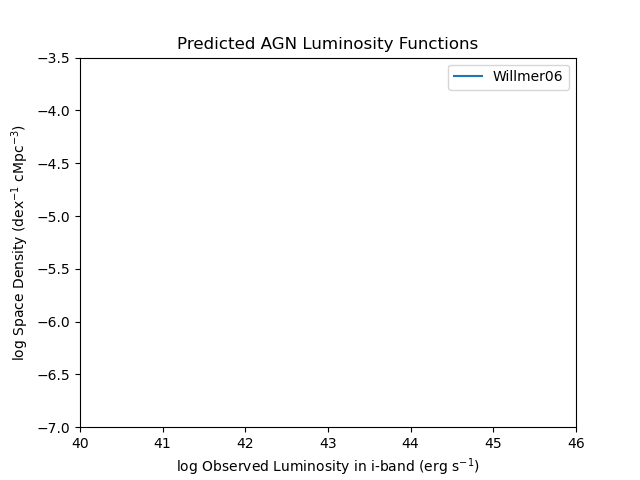
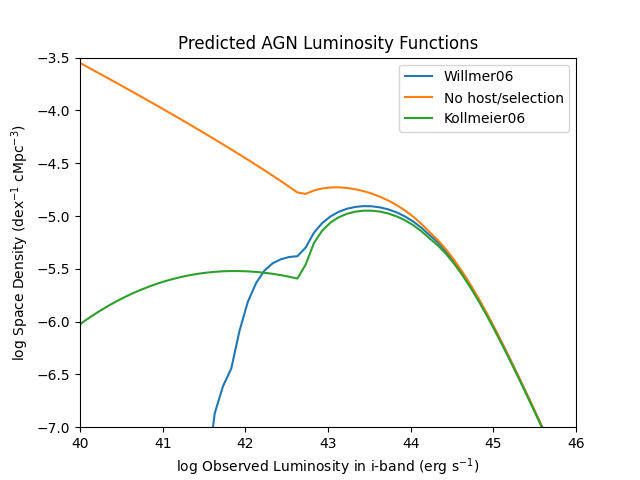
Updates for new, more flexible structure.

diff --git a/qlfhosts/util/Lhost_Lagn_max_v2.py b/qlfhosts/util/Lhost_Lagn_max_v2.py
@@ -1,17 +1,45 @@
 import numpy as np
+import sys 
 
 #Function to find the maximum tolerated ratio between the host and AGN at wavelength lambda for which the object would be selected as an AGN according to criterion sel_crit.
-def Lhost_Lagn_max(agn_sed, hosts_sed, Alam, lam_rest, sel_crit, xlow=0, xhig=100, niter_max=100, debug=False):
+def Lhost_Lagn_max(agn_sed, hosts_sed, Alam, Aband_to_Alam, sel_crit, x_unscaled_all, xlow=0, xhig=100, niter_max=100, debug=False):
 
     #Find the unscaled luminosity ratio. 
-    Lnu_agn_unscaled = agn_sed.Lnu(lam_rest)
-    Lnu_hosts_unscaled = hosts_sed.Lnu(lam_rest)
+    #Lnu_agn_unscaled = agn_sed.Lnu(lam_rest)
+    #Lnu_hosts_unscaled = hosts_sed.Lnu(lam_rest)
 
-    #There should only be one AGN SED, but there can be multiple hosts. 
-    x_unscaled = np.zeros(Lnu_hosts_unscaled.shape)
-    x = np.zeros(len(x_unscaled))
-    for k, Lnu_host_unscaled in enumerate(Lnu_hosts_unscaled):
-        x_unscaled[k] = Lnu_agn_unscaled[0]/Lnu_host_unscaled
+    #Figure out the reddening factors for the AGN. 
+    # Aband = np.zeros(len(agn_sed.bps))
+    # klam_norm = agn_sed.klam(lam_rest)
+    # for j, bp in enumerate(agn_sed.bps):
+    #     lam_eff_band = bp.avgwave()
+    #     Aband[j] = (agn_sed.klam(lam_eff_band/(1+agn_sed.z)) / klam_norm) * Alam
+
+    #Get the AGN unscaled magnitudes.
+    agn_mags = dict()
+    for j, bp_name in enumerate(agn_sed.bp_names):
+        agn_mags[bp_name] = agn_sed.mag_unscaled[0][j] + Aband_to_Alam[bp_name]*Alam
+
+    #Get the host unscaled magnitudes and the difference with the AGN ones. 
+    all_hosts_mag_diff = list()
+    try:
+        for k in range(len(hosts_sed.mag_unscaled)):
+            all_hosts_mag_diff.append(dict())
+            for j, bp_name in enumerate(hosts_sed.bp_names):
+                all_hosts_mag_diff[-1][bp_name] = hosts_sed.mag_unscaled[k][j] - agn_mags[bp_name]
+    except KeyError:
+        print("Need to use the same bands in AGN and hosts SEDs.")
+        sys.exit()
+
+    #There should only be one AGN SED, but there can be multiple hosts, so lets iterate through them to get x. 
+    x = np.zeros(len(hosts_sed.sps))
+    for k, x_unscaled in enumerate(x_unscaled_all):
+
+        # #Set the normalization factor for this template.
+        # x_unscaled = Lnu_host_unscaled/Lnu_agn_unscaled[0]
+
+        #Isolate only the mag_diff values needed.
+        mag_diff = all_hosts_mag_diff[k]
 
         #Don't go through this if the host sed template has 0 likelihood (i.e., is not being used)
         if hosts_sed.likelihood[k]==0.:
@@ -19,13 +47,15 @@ def Lhost_Lagn_max(agn_sed, hosts_sed, Alam, lam_rest, sel_crit, xlow=0, xhig=10
             continue
 
         #Check that xmin selects the source and that xmax does not. If this is not met, then return the bound.
-        if not sel_crit.is_selected(xlow, Alam, lam_rest, agn_sed, hosts_sed, k, x_unscaled):
+        #if not sel_crit.is_selected(xlow, Alam, lam_rest, agn_sed, hosts_sed, k, x_unscaled):
+        if not sel_crit.is_selected(xlow, x_unscaled, agn_mags, mag_diff):
             if debug:
                 print("Object not selected as AGN at xlow. Returning xlow.")
             x[k] = xlow
             continue
 
-        if sel_crit.is_selected(xhig, Alam, lam_rest, agn_sed, hosts_sed, k, x_unscaled):
+        #if sel_crit.is_selected(xhig, Alam, lam_rest, agn_sed, hosts_sed, k, x_unscaled):
+        if sel_crit.is_selected(xhig, x_unscaled, agn_mags, mag_diff):
             if debug:
                 print("Object selected as AGN at xhig. Returning xhig.")
             x[k] = xhig
@@ -36,11 +66,12 @@ def Lhost_Lagn_max(agn_sed, hosts_sed, Alam, lam_rest, sel_crit, xlow=0, xhig=10
         x2 = xhig
         for i in range(niter_max):
             x[k] = 0.5*(x1+x2)
-            if sel_crit.is_selected(x[k], Alam, lam_rest, agn_sed, hosts_sed, k, x_unscaled):
+            #if sel_crit.is_selected(x[k], Alam, lam_rest, agn_sed, hosts_sed, k, x_unscaled):
+            if sel_crit.is_selected(x[k], x_unscaled, agn_mags, mag_diff):
                 x1 = x[k]
             else:
                 x2 = x[k]
-            if (x1-x2)/x[k]<1e-4:
+            if (x2-x1)/x[k]<1e-4:
                 break
 
         #Only gets here if solution not found in niter_max iterations.

diff --git a/Phi_Obs_hostgal_MiLim_v2.py b/Phi_Obs_hostgal_MiLim_v2.py
@@ -136,32 +136,44 @@ def get_phi_lam_obs(z, qlf, lLfrac_lam_obs_min, lLfrac_lam_obs_max, lam_eff_filt
     ltheta = 10.**(lNH-22) * ltheta_fact
     ltheta_2D = np.tile(ltheta, [len(lLfrac_lam_obs_grid), 1])
 
-    #Calculate the maximum host luminosity we can tolerate for each value of the reddening being considered. 
+    #Before calculating the maximum host luminosity allowed, let's pre-compute a number of useful quantities. 
+    # - Find the unscaled luminosity ratio. 
+    Lnu_agn_unscaled = agn_sed.Lnu(lam_eff_filter/(1.+z))
+    Lnu_hosts_unscaled = hosts_sed.Lnu(lam_eff_filter/(1.+z))
+    x_unscaled_all = Lnu_hosts_unscaled/Lnu_agn_unscaled[0]
+    # - Figure out the reddening factors for the AGN. 
+    Aband_to_Alam = dict()
+    klam_norm = agn_sed.klam(lam_eff_filter/(1.+z))
+    for j, bp in enumerate(agn_sed.bps):
+        lam_eff_band = bp.avgwave()
+        bp_name = agn_sed.bp_names[j]
+        Aband_to_Alam[bp_name] = (agn_sed.klam(lam_eff_band/(1+agn_sed.z)) / klam_norm)
+
+    #Calculate the maximum host luminosity we can tolerate for each value of the reddening being considered for each host template. 
     Lh_La_max = np.zeros((lNH.shape[0],hosts_sed.likelihood.shape[0]))
-    print(Lh_La_max.shape)
-    input()
     A_lams = 2.5*ltheta
     for k, A_lam in enumerate(A_lams):
-        Lh_La_max[k] = Lhost_Lagn_max(agn_sed, hosts_sed, A_lam, lam_eff_filter/(1.+z), sel_crit)
-        print(Lh_La_max[k])
-        input()
-    Lh_La_max_2D = np.tile(Lh_La_max, [len(lLfrac_lam_obs_grid),1])
+        Lh_La_max[k] = Lhost_Lagn_max(agn_sed, hosts_sed, A_lam, Aband_to_Alam, sel_crit, x_unscaled_all)
 
+    #Estimate some useful quantities.
     nu_rest = (c/(lam_eff_filter/(1.+z))).to(u.Hz)
     L_nu    = qlf.L_at_lam(Lfrac*Lstar, lam_eff_filter/(1.+z))/nu_rest
     L_nu_2D = np.tile(L_nu, [len(lNH), 1]).T
-    #print(Lh_La_max_2D.shape, L_nu_2D.shape)
-    Lh_nu_max_2D = Lh_La_max_2D * L_nu_2D
-
-    #Lh_nu_max = (Lh_La_max * Lfrac*Lstar / (c/lam_eff_filter)).to(u.erg/u.s/u.Hz).value
-    #print(Lh_nu_max_2D)
-    #for k in range(len(lNH)):
-    #    print("{0:.2f} {1:.5f} {2:.2f}".format(lNH[k], Lh_La_max[k], glf.P(Lh_nu_max[k].to(u.erg/u.s/u.Hz).value)))
     L_bol_AGN = Lfrac*Lstar
     L_bol_AGN_2D = np.tile(L_bol_AGN, [len(lNH), 1]).T
-    P_2D = glf.P(Lh_nu_max_2D, sed=agn_sed, L_AGN = L_bol_AGN_2D)
-    #print(P_2D)
-    # exit()
+
+    #This is the array that will hold the combined probabilities. 
+    P_2D = np.zeros(L_nu_2D.shape)
+
+    #Iterate by template to fill out the P_2D array.
+    for k_sed in range(len(hosts_sed.sps)):
+        if hosts_sed.likelihood[k_sed] == 0.:
+            continue
+        Lh_La_max_2D = np.tile(Lh_La_max[:,k_sed], [len(lLfrac_lam_obs_grid),1])
+        Lh_nu_max_2D = Lh_La_max_2D * L_nu_2D
+
+        P_host = glf.P(Lh_nu_max_2D, hosts_sed=hosts_sed, k_hosts_sed=k_sed, L_AGN=L_bol_AGN_2D, lam_rest=lam_eff_filter/(1.+z))
+        P_2D += hosts_sed.likelihood[k_sed] * P_host
 
     #For each NH, we will need to evaluate the unreddened QLF at a luminosity of lLfrac_lam_obs_grid + ltheta. So let's build it as a 2D array in which each row has the same lLfrac_lam_obs_grid value modified by the reddening correction (i.e., unreddened assuming different levels of obscuration).
     lLfrac_lam_sig_eval_2D = np.tile(lLfrac_lam_obs_grid, [len(lNH), 1]).T + ltheta_2D

diff --git a/qlfhosts/AGN_Selection/selection_criteria_class_v2.py b/qlfhosts/AGN_Selection/selection_criteria_class_v2.py
@@ -7,36 +7,43 @@ class SelectionCriteria(object):
     def __init__(self):
         return
 
-    def is_selected(self,Lhost_Lagn, Alam, lam_rest, agn_sed, hosts_sed, k_hosts_sed, Lhost_Lagn_unscaled):
+    #def is_selected(self,Lhost_Lagn, Alam, lam_rest, agn_sed, hosts_sed, k_hosts_sed, Lhost_Lagn_unscaled):
         
+    def is_selected(self, Lhost_Lagn, Lhost_Lagn_unscaled, agn_mags, mag_diff):
+
         #Set the normalization for the SED ratios.
-        ratio = Lhost_Lagn/Lhost_Lagn_unscaled[k_hosts_sed]
+        #ratio = Lhost_Lagn/Lhost_Lagn_unscaled[k_hosts_sed]
+        ratio = Lhost_Lagn/Lhost_Lagn_unscaled
 
         #Figure out the reddening factors for the AGN. 
-        Aband = np.zeros(len(agn_sed.bps))
-        klam_norm = agn_sed.klam(lam_rest)
-        for j, bp in enumerate(agn_sed.bps):
-            lam_eff_band = bp.avgwave()
-            Aband[j] = (agn_sed.klam(lam_eff_band/(1+agn_sed.z)) / klam_norm) * Alam
+        # Aband = np.zeros(len(agn_sed.bps))
+        # klam_norm = agn_sed.klam(lam_rest)
+        # for j, bp in enumerate(agn_sed.bps):
+        #     lam_eff_band = bp.avgwave()
+        #     Aband[j] = (agn_sed.klam(lam_eff_band/(1+agn_sed.z)) / klam_norm) * Alam
 
         #Get the AGN magnitudes.
-        agn_mags = dict()
-        for j, bp_name in enumerate(agn_sed.bp_names):
-            agn_mags[bp_name] = agn_sed.mag_unscaled[0][j] + Aband[j]
+        # agn_mags = dict()
+        # for j, bp_name in enumerate(agn_sed.bp_names):
+        #     agn_mags[bp_name] = agn_sed.mag_unscaled[0][j] + Aband[j]
 
         #Get the host magnitudes. 
-        host_mags = dict()
-        for j, bp_name in enumerate(hosts_sed.bp_names):
-            host_mags[bp_name] = hosts_sed.mag_unscaled[k_hosts_sed][j]
+        # host_mags = dict()
+        # for j, bp_name in enumerate(hosts_sed.bp_names):
+        #     host_mags[bp_name] = hosts_sed.mag_unscaled[k_hosts_sed][j]
 
         #Combine the magnitudes.
-        try:
-            mag = dict()
-            for bp_name in agn_mags:
-                mag[bp_name] = -2.5*np.log10(10**(-0.4*agn_mags[bp_name]) + ratio * 10**(-0.4*host_mags[bp_name]))
-        except KeyError:
-            print("Need to use the same bands in AGN and hosts SEDs.")
-            sys.exit()
+        # try:
+        #     mag = dict()
+        #     for bp_name in agn_mags:
+        #         mag[bp_name] = -2.5*np.log10(10**(-0.4*agn_mags[bp_name]) + ratio * 10**(-0.4*host_mags[bp_name]))
+        # except KeyError:
+        #     print("Need to use the same bands in AGN and hosts SEDs.")
+        #     sys.exit()
    
+        mag = dict()
+        for bp_name in agn_mags:
+            mag[bp_name] = agn_mags[bp_name] - 2.5*np.log10(1.+ratio*10**(-0.4*mag_diff[bp_name]))
+
         #Apply the selection criterion. 
         return self.is_agn(mag)

diff --git a/test_script_v2.py b/test_script_v2.py
@@ -11,7 +11,7 @@ from qlfhosts.SEDs import A10_AGN, A10_hosts
 from qlfhosts.AGN_Selection.R02_v2 import R02
 from qlfhosts.GLFs.Willmer06 import Willmer06
 from qlfhosts.GLFs.Uniform import Uniform
-from qlfhosts.GLFs.Kollmeier06 import Kollmeier06
+from qlfhosts.GLFs.Kollmeier06_v2 import Kollmeier06
 
 #Set the redshift at which we want to estimate the observed QLF. 
 #z = 1.0
@@ -49,13 +49,13 @@ glf2 = Uniform()
 phi2, dlLfrac2 = get_phi_lam_obs(z, qlf, lL_frac_min, lL_frac_max, lam_eff_filter , agn_sed, hosts_sed, sel_crit, glf2)
 
 #Estimate now with the Eddington-ratio dependent host distribution.
-#glf3 = Kollmeier06()
-#phi3, dlLfrac3 = get_phi_lam_obs(z, qlf, lL_frac_min, lL_frac_max, lam_eff_filter , agn_sed, hosts_sed, sel_crit, glf3)
+glf3 = Kollmeier06()
+phi3, dlLfrac3 = get_phi_lam_obs(z, qlf, lL_frac_min, lL_frac_max, lam_eff_filter , agn_sed, hosts_sed, sel_crit, glf3)
 
 #Plot the observed QLF.
 lLfracs = np.arange(lL_frac_min, lL_frac_max+0.1*dlLfrac.value, dlLfrac.value)
 lLfracs2 = np.arange(lL_frac_min, lL_frac_max+0.1*dlLfrac2.value, dlLfrac2.value)
-#lLfracs3 = np.arange(lL_frac_min, lL_frac_max+0.1*dlLfrac3.value, dlLfrac3.value)
+lLfracs3 = np.arange(lL_frac_min, lL_frac_max+0.1*dlLfrac3.value, dlLfrac3.value)
 
 Lstar = 10.**(qlf.log_Lstar(z)) * qlf.Lstar_units
 nu_Lstarnu = qlf.L_at_lam(Lstar, lam_eff_filter/(1.+z))
@@ -66,11 +66,11 @@ Lstar_nu = (nu_Lstarnu/nu_rest).to(u.erg/u.s/u.Hz).value
 norm = np.log10(nu_Lstarnu.to(u.erg/u.s).value)
 lLnu = lLfracs + norm
 lLnu2 = lLfracs2 + norm
-#lLnu3 = lLfracs3 + norm
+lLnu3 = lLfracs3 + norm
 
 lphi = np.log10(phi.value)
 lphi2 = np.log10(phi2.value)
-#lphi3 = np.log10(phi3.value)
+lphi3 = np.log10(phi3.value)
 
 #plt.plot(lLfracs, phi)
 #plt.plot(lLfracs2, phi2)
@@ -78,8 +78,8 @@ lphi2 = np.log10(phi2.value)
 #plt.ylim([1e-7, 1e-4])
 
 plt.plot(lLnu , lphi , label='Willmer06')
-#plt.plot(lLnu2, lphi2, label='No host/selection')
-#plt.plot(lLnu3, lphi3, label='Kollmeier06')
+plt.plot(lLnu2, lphi2, label='No host/selection')
+plt.plot(lLnu3, lphi3, label='Kollmeier06')
 #plt.xlim([39.56, 51.03])
 #plt.ylim([-17.3, -2.94])
 plt.xlim([40., 46.])

diff --git a/qlfhosts/GLFs/Kollmeier06_v2.py b/qlfhosts/GLFs/Kollmeier06_v2.py
@@ -1,0 +1,47 @@
+import numpy as np
+import astropy.units as u
+from astropy.constants import L_sun, c
+from scipy.special import erf
+
+class Kollmeier06(object):
+
+    def __init__(self):
+
+        self.mu = np.log10(0.25)
+        self.sigma = 0.3
+
+        return
+
+    def P(self, Lh_nu_max, **kargs):
+
+        #Chek that the SED model object was passed along.
+        for key in ('L_AGN', 'hosts_sed', 'k_hosts_sed', 'lam_rest'):
+            if key not in kargs:
+                print('To calculate P in the Kollmeier06 module you need to include the parameter {}.'.format(key))
+                return [None]*len(Lh_nu_max)
+
+        #Get the corresponding V-band bulge luminosity density for the host luminosity density at the rest-frame wavelength of the observations.
+        hosts_sed = kargs['hosts_sed']
+        k_hosts_sed = kargs['k_hosts_sed']
+        lam_rest = kargs['lam_rest']
+        Lh_nu_V_max = Lh_nu_max * hosts_sed.Lnu(0.545*u.micron)[k_hosts_sed]/hosts_sed.Lnu(lam_rest)[k_hosts_sed]
+        Lh_nu_V_bulge_max = hosts_sed.bt_ratio[k_hosts_sed] * Lh_nu_V_max
+
+        #Now, get the SMBH mass using the relation in eqn. (5) of Gultekin+09. We assume the solar Johnson-V luminosity density of Willmer (2018). Note that we get M_BH in solar masses.
+        M_V_sun_AB = 4.80
+        Lnu_V_sun = 3631.*u.Jy * 10**(-0.4*M_V_sun_AB) * 4*np.pi*(10*u.pc)**2
+        lM_BH_max = 8.95 + 1.11*np.log10(Lh_nu_V_bulge_max/(1e11*Lnu_V_sun) + 1e-32)
+
+        #Determine lambda_min, the minimum Eddington ratio possible. 
+        l_Ledd_max = np.log10(3.2)+4 + lM_BH_max #In solar luminosities.
+        L_AGN = kargs['L_AGN']
+        l_lambda_min = np.log10(L_AGN/L_sun) - l_Ledd_max
+
+        #This is a convenience variable for the integration.
+        xmin = (l_lambda_min - self.mu)/(self.sigma * 2**0.5)
+        Prob = np.where(Lh_nu_max > 0., 
+            0.5*(1-xmin/np.abs(xmin) * erf(np.abs(xmin))), 
+            0.)
+
+        #Return the probability.
+        return Prob.value

diff --git a/qlfhosts/SEDs/A10_hosts.py b/qlfhosts/SEDs/A10_hosts.py
@@ -50,6 +50,9 @@ class A10_hosts(general_SED_model):
         else:
             self.likelihood = np.array(likelihood)
 
+        #Set the B/T ratios.
+        self.bt_ratio = np.array([1.0, 0.25, 0.1])
+
         #Initialize the general SED model. 
         super().__init__(sps, z, bp_names, bp_folder)
 
